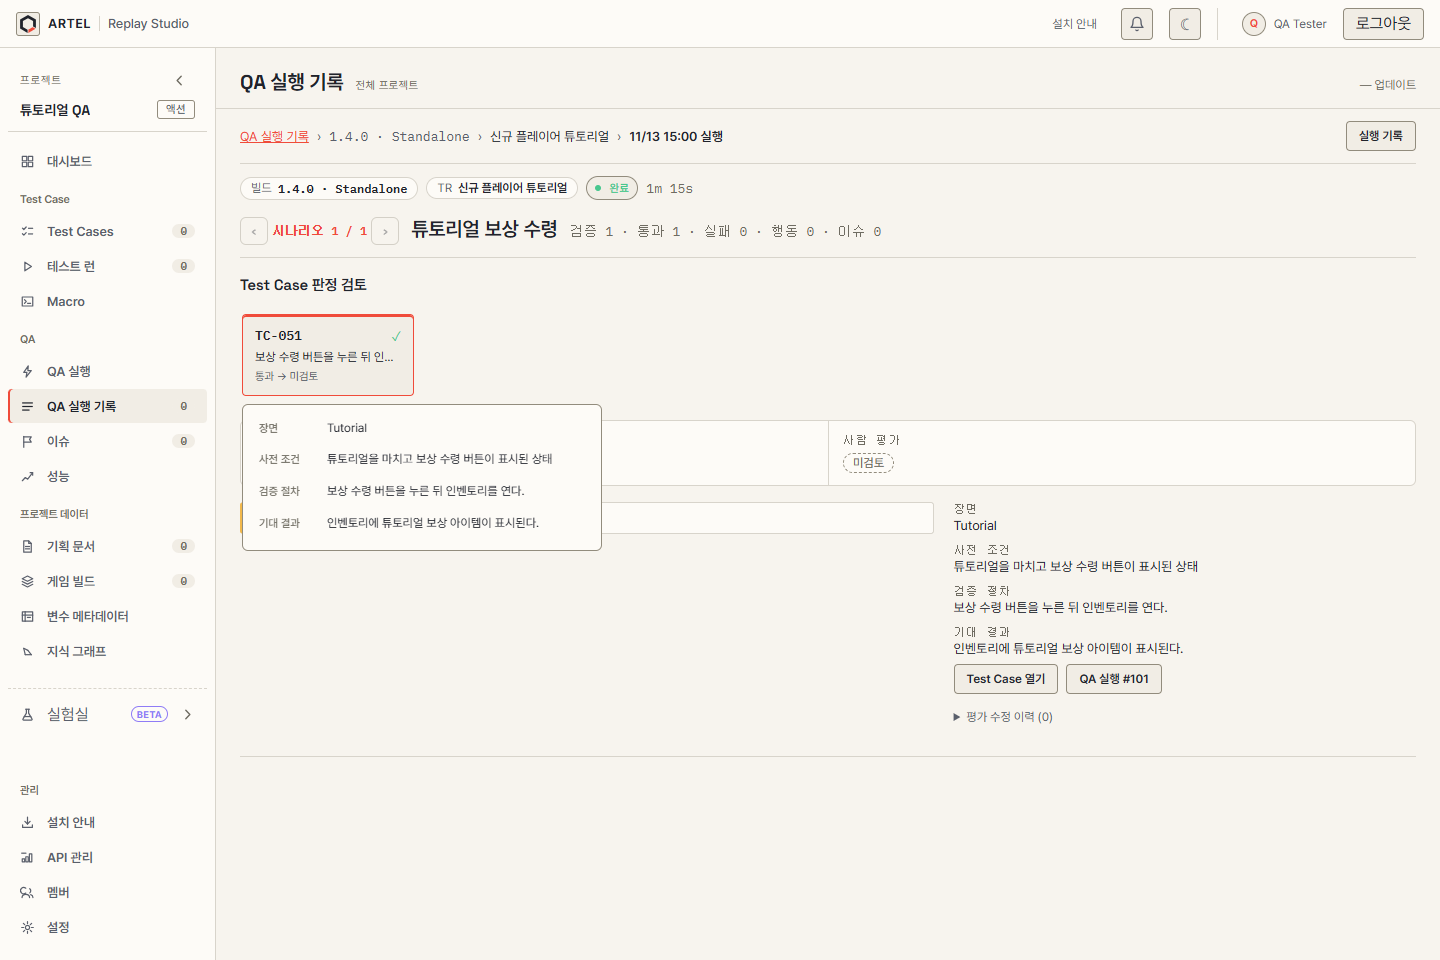
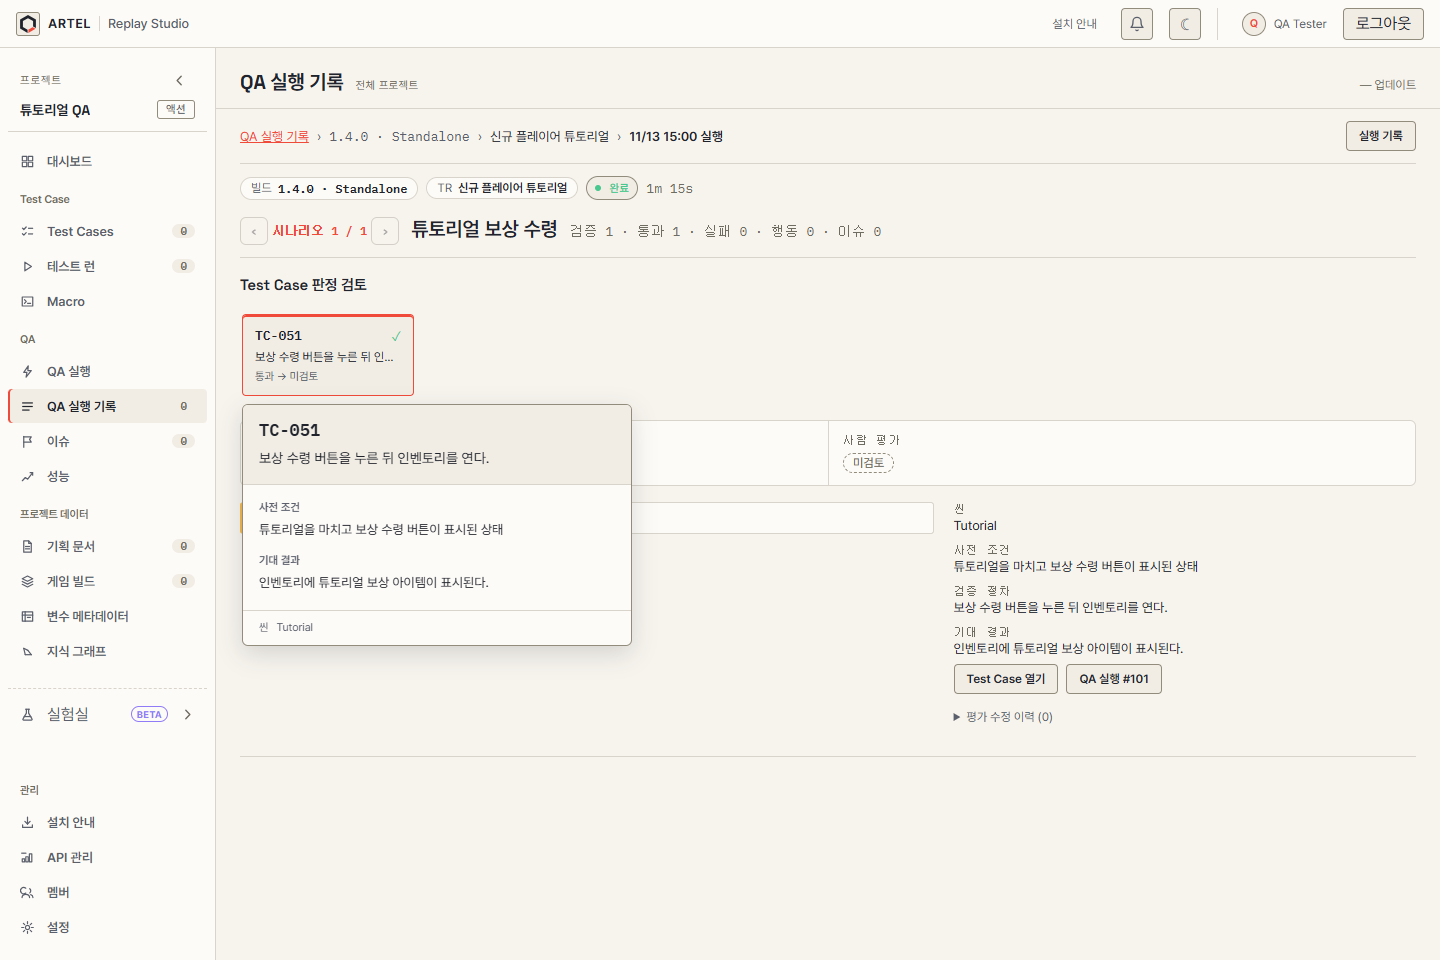
fix(qa): 실행 화면의 TC 상세 팝업 영역과 디자인 개선

Changed region(s): [[0.1875, 0.4375, 0.375, 0.6875]]

diff --git a/src/qa/QaLogTimeline.tsx b/src/qa/QaLogTimeline.tsx
@@ -246,6 +246,7 @@ function QaFlowStep({ projectId, gameBuildId, block, free = false, caseId = null
 
   return (
     <li className="qa-flow-step" data-log-id={logId ?? block.lines[0]?.id}>
+      <TestCaseHover projectId={projectId} caseId={caseId} gameBuildId={gameBuildId}>
       <div className="qa-flow-card">
         {/* 한 TC 가 스텝 여럿에 걸칠 때 어디서 갈리는지, 그리고 레일의 몇 번째인지를 잇는다. */}
         {!free && <p className="qa-flow-step-no">{text.flowStepLabel(block.step)}</p>}
@@ -279,11 +280,12 @@ function QaFlowStep({ projectId, gameBuildId, block, free = false, caseId = null
             <div className="qa-flow-said">
               {block.reason !== null && <p className="qa-flow-reason">{block.reason}</p>}
               {/* 결과는 이유에 이어 붙이지 않는다. 붙이면 모델이 쓴 문장의 일부처럼 읽힌다. */}
-              <p className="qa-flow-call">{caseId !== null && <TestCaseHover projectId={projectId} caseId={caseId} gameBuildId={gameBuildId}><span translate="no">{caseLabel(caseId)} · </span></TestCaseHover>}{verdict}</p>
+              <p className="qa-flow-call">{free && caseId !== null && <span translate="no">{caseLabel(caseId)} · </span>}{verdict}</p>
             </div>
           </div>
         )}
       </div>
+      </TestCaseHover>
     </li>
   )
 }
@@ -345,6 +347,7 @@ function QaLogRow({
         ? log.message
         : (behaviorEndedMessage ?? 'No message')
   const focused = log.id === focusedLogId
+  const hoverCaseId = caseId ?? (step === null ? null : scenarioSteps[step - 1]?.case_id)
 
   return (
     <li
@@ -355,6 +358,7 @@ function QaLogRow({
       tabIndex={-1}
     >
       <div className="qa-log-marker" aria-hidden="true" />
+      <TestCaseHover projectId={projectId} caseId={hoverCaseId} gameBuildId={gameBuildId}>
       <article aria-labelledby={`qa-log-${log.id}-message`}>
         <header className="qa-log-meta">
           <span className="qa-log-kind">{TYPE_LABELS[log.type]}</span>
@@ -362,7 +366,7 @@ function QaLogRow({
             <span className="qa-log-tool-name mono" translate="no">{call.tool}</span>
           )}
           {executionMode === 'FREE'
-            ? caseId !== null && <TestCaseHover projectId={projectId} caseId={caseId} gameBuildId={gameBuildId}><span className="qa-tc-badge" translate="no">{caseLabel(caseId)}</span></TestCaseHover>
+            ? caseId !== null && <span className="qa-tc-badge" translate="no">{caseLabel(caseId)}</span>
             : step !== null && <span className="qa-log-step">{t.qa.steps.short(step)}</span>}
           {repeats > 1 && (
             /* Counted, not just styled: the number is the information. */
@@ -424,6 +428,7 @@ function QaLogRow({
           </>
         )}
       </article>
+      </TestCaseHover>
     </li>
   )
 }
@@ -794,7 +799,8 @@ export function QaLogTimeline({
                 </p></TestCaseHover>
                 <ol className="qa-flow-blocks">
                   {group.blocks.map((block) => (
-                    <QaFlowStep projectId={projectId} gameBuildId={gameBuildId} block={block} key={block.id} />
+                    <QaFlowStep projectId={projectId} gameBuildId={gameBuildId} block={block}
+                      caseId={group.tcNo === null ? null : String(caseGroups[group.tcNo - 1]?.caseId ?? '') || null} key={block.id} />
                   ))}
                 </ol>
               </li>
@@ -804,15 +810,18 @@ export function QaLogTimeline({
             )) : listItems.map((item) => {
               if (item.kind === 'header') {
             return (
-              <li className="qa-log-section" key={item.id}>
+              <TestCaseHover key={item.id} projectId={projectId}
+                caseId={item.section.kind === 'tc' ? caseGroups[item.section.tcNo - 1]?.caseId : null} gameBuildId={gameBuildId}>
+              <li className="qa-log-section">
                 {item.section.kind === 'tc' ? (
-                  <TestCaseHover projectId={projectId} caseId={caseGroups[item.section.tcNo - 1]?.caseId} gameBuildId={gameBuildId}><span className="qa-tc-badge">{caseGroups[item.section.tcNo - 1]?.caseId != null ? caseLabel(caseGroups[item.section.tcNo - 1].caseId!) : '—'}</span></TestCaseHover>
+                  <span className="qa-tc-badge">{caseGroups[item.section.tcNo - 1]?.caseId != null ? caseLabel(caseGroups[item.section.tcNo - 1].caseId!) : '—'}</span>
                 ) : (
                   <span className="qa-log-section-label">
                     {item.section.kind === 'action' ? t.qa.run.logAction : t.qa.run.logGeneral}
                   </span>
                 )}
               </li>
+              </TestCaseHover>
             )
           }
           const anchor = anchorOf(item.row)

diff --git a/src/qa/QaScenarioSteps.tsx b/src/qa/QaScenarioSteps.tsx
@@ -125,10 +125,12 @@ export function QaScenarioSteps({
       && !['passed', 'failed', 'inconclusive'].includes(row.progress.state) ? null : row.progress
     if (step === null) {
       return (
-        <li key={row.step} className="qa-rail-step qa-rail-step--neutral">
-          <TestCaseHover projectId={projectId} caseId={isFree ? scenarioSteps[row.step - 1]?.case_id : null} gameBuildId={gameBuildId}><span className="qa-rail-step-no">{numberLabel}</span></TestCaseHover>
-          <span className="qa-rail-step-title">{title}</span>
-        </li>
+        <TestCaseHover key={row.step} projectId={projectId} caseId={caseId} gameBuildId={gameBuildId}>
+          <li className="qa-rail-step qa-rail-step--neutral">
+            <span className="qa-rail-step-no">{numberLabel}</span>
+            <span className="qa-rail-step-title">{title}</span>
+          </li>
+        </TestCaseHover>
       )
     }
 
@@ -152,7 +154,7 @@ export function QaScenarioSteps({
           />
         )}
         <span aria-hidden="true" className="qa-rail-step-glyph">{STATE_GLYPHS[step.state]}</span>
-        <TestCaseHover projectId={projectId} caseId={isFree ? scenarioSteps[row.step - 1]?.case_id : null} gameBuildId={gameBuildId}><span className="qa-rail-step-no">{numberLabel}</span></TestCaseHover>
+        <span className="qa-rail-step-no">{numberLabel}</span>
         <span className="qa-rail-step-title">{title}</span>
         <span className="visually-hidden">{s.stateLabels[step.state]}</span>
       </>
@@ -161,13 +163,14 @@ export function QaScenarioSteps({
     const verdictLogId = step.verdictLogId
     return (
       <li key={row.step}>
-        {verdictLogId === null || onJump === undefined ? (
-          <span className={className} title={label}>{body}</span>
-        ) : (
-          <button className={`${className} qa-rail-step--linked`} onClick={() => onJump(verdictLogId)} title={label} type="button">
-            {body}
-          </button>
-        )}
+        <TestCaseHover projectId={projectId} caseId={caseId} gameBuildId={gameBuildId}>
+          {verdictLogId === null || onJump === undefined ? (
+            <span className={className} title={caseId == null ? label : undefined} aria-label={caseId != null ? label : undefined}>{body}</span>
+          ) : (
+            <button className={`${className} qa-rail-step--linked`} onClick={() => onJump(verdictLogId)}
+              title={caseId == null ? label : undefined} aria-label={caseId != null ? label : undefined} type="button">{body}</button>
+          )}
+        </TestCaseHover>
       </li>
     )
   }
@@ -200,18 +203,18 @@ export function QaScenarioSteps({
           )
           return (
             <li key={`case-${blockIndex}`} className="qa-rail-case">
-              <div className="qa-rail-case-head">
-                <TestCaseHover projectId={projectId} caseId={block.caseId} gameBuildId={gameBuildId}><span className="qa-rail-case-no">{caseLabel(block.caseId)}</span></TestCaseHover>
+              <TestCaseHover projectId={projectId} caseId={block.caseId} gameBuildId={gameBuildId}><div className="qa-rail-case-head">
+                <span className="qa-rail-case-no">{caseLabel(block.caseId)}</span>
                 {caseVerdicts.has(String(block.caseId)) && (
                   <SavedVerdict status={caseVerdicts.get(String(block.caseId)) as VerificationStatus} />
                 )}
                 {state !== undefined && (logId == null || onJump === undefined ? (
-                  <span className={`qa-rail-case-verdict ${toneClass('qa-rail-case-verdict', state, grade)}`} title={label ?? undefined}>{verdict}</span>
+                  <span className={`qa-rail-case-verdict ${toneClass('qa-rail-case-verdict', state, grade)}`}>{verdict}</span>
                 ) : (
                   <button type="button" className={`qa-rail-case-verdict ${toneClass('qa-rail-case-verdict', state, grade)}`}
                     aria-label={label ?? undefined} onClick={() => onJump(logId)}>{verdict}</button>
                 ))}
-              </div>
+              </div></TestCaseHover>
               <ol className="qa-rail-step-list">{block.rows.map(renderRow)}</ol>
             </li>
           )

diff --git a/src/testCases/testCaseHover.css b/src/testCases/testCaseHover.css
@@ -1,7 +1,7 @@
 .tc-hover {
   position: fixed;
   z-index: 1100;
-  width: min(360px, calc(100vw - 16px));
+  width: min(390px, calc(100vw - 16px));
   max-height: min(400px, calc(100dvh - 16px));
   box-sizing: border-box;
   overflow: auto;
@@ -9,6 +9,7 @@
   border: 1px solid var(--color-border-strong);
   border-radius: var(--radius-lg);
   background: var(--color-bg-surface);
+  box-shadow: 0 8px 24px color-mix(in srgb, var(--color-text-primary) 16%, transparent);
   color: var(--color-text-primary);
   font-family: var(--font-sans);
   font-size: 13px;
@@ -19,19 +20,30 @@
   overflow-wrap: anywhere;
   user-select: text;
 }
-.tc-hover-step {
-  margin: 0;
-  padding: 12px 16px;
+.tc-hover-header {
+  padding: 14px 16px;
   border-bottom: 1px solid var(--color-border-subtle);
   background: var(--color-bg-raised);
-  font-size: 13px;
-  font-weight: 600;
+}
+.tc-hover-title { font: 700 17px/1.3 var(--font-mono); }
+.tc-hover-step {
+  margin: 6px 0 0;
+  font-size: 14px;
   line-height: 1.55;
   white-space: pre-wrap;
 }
 .tc-hover-fields { display: grid; gap: 12px; margin: 0; padding: 14px 16px 16px; }
-.tc-hover-fields > div { display: grid; grid-template-columns: 56px minmax(0, 1fr); gap: 12px; align-items: baseline; }
-.tc-hover-fields dt { color: var(--color-text-muted); font-size: 11px; font-weight: 500; }
-.tc-hover-fields dd { margin: 0; font-size: 12px; white-space: pre-wrap; }
+.tc-hover-fields dt { color: var(--color-text-secondary); font-size: 11px; font-weight: 600; }
+.tc-hover-fields dd { margin: 2px 0 0; white-space: pre-wrap; }
+.tc-hover-scene {
+  display: flex;
+  gap: 8px;
+  margin: 0;
+  padding: 8px 16px;
+  border-top: 1px solid var(--color-border-subtle);
+  color: var(--color-text-secondary);
+  font-size: 11px;
+}
+.tc-hover-scene > :first-child { flex: none; }
 .tc-hover-note { margin: 0; padding: 12px 16px; color: var(--color-text-secondary); font-size: 12px; }
 .tc-hover:focus-visible { outline: 2px solid var(--color-action-primary); outline-offset: 2px; }

diff --git a/src/testCases/TestCasePreview.tsx b/src/testCases/TestCasePreview.tsx
@@ -27,18 +27,26 @@ export function TestCasePreview({ projectId, caseId, gameBuildId }: {
   if (failed) return <p className="tc-hover-note" role="status">{labels.error}</p>
   if (testCase === null) return <p className="tc-hover-note" role="status">{labels.loading}</p>
 
+  return <TestCasePreviewContent title={caseLabel(testCase.id)} step={testCase.step}
+    scene={testCase.scene} sceneLabel={labels.scene}
+    fields={[[labels.precondition, testCase.precondition || '—'], [labels.expected, testCase.expectedValue || '—']]} />
+}
+
+export function TestCasePreviewContent({ title, step, scene, sceneLabel, fields }: {
+  title: string
+  step?: string | null
+  scene?: string | null
+  sceneLabel: string
+  fields: ReadonlyArray<readonly [string, string | null]>
+}) {
   return <>
-    <p className="tc-id">{caseLabel(testCase.id)}</p>
-    <p className="tc-hover-step">{testCase.step || '—'}</p>
-    <dl className="tc-hover-fields">
-      <div>
-        <dt>{labels.precondition}</dt>
-        <dd>{testCase.precondition || '—'}</dd>
-      </div>
-      <div>
-        <dt>{labels.expected}</dt>
-        <dd>{testCase.expectedValue || '—'}</dd>
-      </div>
-    </dl>
+    <header className="tc-hover-header">
+      <strong className="tc-hover-title" translate="no">{title}</strong>
+      {step && <p className="tc-hover-step">{step}</p>}
+    </header>
+    {fields.some(([, value]) => value) && <dl className="tc-hover-fields">
+      {fields.map(([label, value]) => value && <div key={label}><dt>{label}</dt><dd>{value}</dd></div>)}
+    </dl>}
+    {scene && <p className="tc-hover-scene"><span>{sceneLabel}</span><span>{scene}</span></p>}
   </>
 }

diff --git a/src/qa/evaluation/evaluationCopy.ts b/src/qa/evaluation/evaluationCopy.ts
@@ -1,6 +1,6 @@
 export const evaluationCopy = {
   ko: { title: 'Test Case 판정 검토', attempt: '검증 시도', loading: '불러오는 중…', error: '불러오지 못했습니다. 다시 시도해 주세요.', retry: '다시 시도', empty: '검증 시도가 없습니다.',
-    original: 'Agent 판정', human: '사람 평가', originalReason: '판정 이유', snapshot: 'Test Case 내용', scene: '장면', precondition: '사전 조건', step: '검증 절차', expected: '기대 결과',
+    original: 'Agent 판정', human: '사람 평가', originalReason: '판정 이유', snapshot: 'Test Case 내용', scene: '씬', precondition: '사전 조건', step: '검증 절차', expected: '기대 결과',
     actual: '실제 결과', reason: '이유 (선택)', help: '평가와 이유는 QA agent의 판정 정확도를 개선하는 데 도움이 됩니다.',
     save: '평가 저장', saved: '평가를 저장했습니다.', historyLoadFailed: '평가는 저장됐지만 수정 이력을 불러오지 못했습니다.', history: '평가 수정 이력', video: '검증 당시 영상', unavailable: '재생할 수 있는 영상이 없습니다.',
     play: '재생', pause: '일시 정지', mute: '음소거', fullscreen: '전체 화면',

diff --git a/src/qa/evaluation/CaseAttemptPicker.tsx b/src/qa/evaluation/CaseAttemptPicker.tsx
@@ -1,5 +1,6 @@
 import { useTestCaseLabel, useTestCaseIdentifiers } from '../../testCases/testCaseIdentifiers'
 import { TestCaseHoverPanel } from '../../testCases/TestCaseHover'
+import { TestCasePreviewContent } from '../../testCases/TestCasePreview'
 import { useEffect, useRef } from 'react'
 import { shortWhen } from '../history/historyModel'
 import type { Attempt } from './evaluationApi'
@@ -67,9 +68,8 @@ export function CaseAttemptPicker({ id, options, current, onSelect, copy }: {
         if (!snapshot || fields.length === 0) return tab
 
         return <TestCaseHoverPanel key={caseId} label={`${caseLabel(caseId)} · ${copy.snapshot}`} content={
-          <dl className="tc-hover-fields">
-            {fields.map(field => <div key={field}><dt>{copy[field]}</dt><dd>{snapshot[field]}</dd></div>)}
-          </dl>
+          <TestCasePreviewContent title={caseLabel(caseId)} step={snapshot.step} scene={snapshot.scene}
+            sceneLabel={copy.scene} fields={[[copy.precondition, snapshot.precondition], [copy.expected, snapshot.expected]]} />
         }>{tab}</TestCaseHoverPanel>
       })}
     </div>

diff --git a/src/i18n/messages/scenarios.ts b/src/i18n/messages/scenarios.ts
@@ -800,6 +800,7 @@ export const scenariosEn = {
     loading: 'Loading…',
     error: 'Could not load this Test Case.',
     untitled: 'Untitled Test Case',
+    scene: 'Scene',
     precondition: 'Preconditions',
     expected: 'Expected result',
     /**
@@ -1703,6 +1704,7 @@ export const scenariosKo: Localized<typeof scenariosEn> = {
     loading: '불러오는 중…',
     error: '이 Test Case를 불러오지 못했습니다.',
     untitled: '이름 없는 Test Case',
+    scene: '씬',
     precondition: '사전 조건',
     expected: '기대 결과',
     evidenceGaps: '명세가 확정되지 못한 이유',
